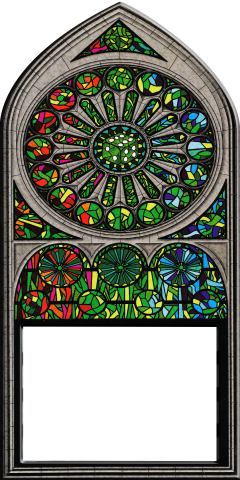
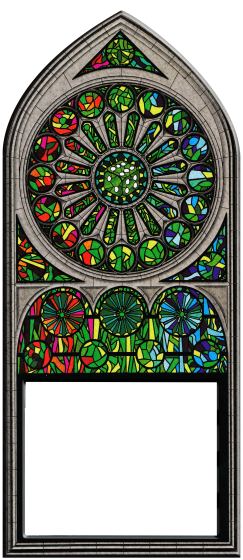
MultiplayerGUI -  miglioramenti

diff --git a/src/main/java/Progetto_Ing_Sw/com/client/MultiplayerGUI.java b/src/main/java/Progetto_Ing_Sw/com/client/MultiplayerGUI.java
@@ -70,10 +70,10 @@ public class MultiplayerGUI extends Stage {
         //INIZIO Lobby Scene
 
         //Finestre
-        ImageView Player1Window = new ImageView("Progetto_Ing_Sw/com/client/GUI/LobbyPlayer1.png");
-        ImageView Player2Window = new ImageView("Progetto_Ing_Sw/com/client/GUI/LobbyPlayer2.png");
-        ImageView Player3Window = new ImageView("Progetto_Ing_Sw/com/client/GUI/LobbyPlayer3.png");
-        ImageView Player4Window = new ImageView("Progetto_Ing_Sw/com/client/GUI/LobbyPlayer4.png");
+        ImageView Player1Window = new ImageView("Progetto_Ing_Sw/com/client/GUI/LobbyPlayer1.png");Player1Window.setTranslateY(-30);
+        ImageView Player2Window = new ImageView("Progetto_Ing_Sw/com/client/GUI/LobbyPlayer2.png");Player2Window.setTranslateY(-30);
+        ImageView Player3Window = new ImageView("Progetto_Ing_Sw/com/client/GUI/LobbyPlayer3.png");Player3Window.setTranslateY(-30);
+        ImageView Player4Window = new ImageView("Progetto_Ing_Sw/com/client/GUI/LobbyPlayer4.png");Player4Window.setTranslateY(-30);
 
 
         //Bottoni per i singoli giocatori da premere per dare il Ready
@@ -85,10 +85,10 @@ public class MultiplayerGUI extends Stage {
 
 
         //Labels con i nomi dei giocatori
-        Player1Label = new Label("Player 1"); Player1Label.setId("PlayerLobbyLabel");Player1Label.setPrefWidth(240);Player1Label.setTranslateY(255);
-        Player2Label = new Label("Player 2"); Player2Label.setId("PlayerLobbyLabel");Player2Label.setPrefWidth(240);Player2Label.setTranslateY(255);
-        Player3Label = new Label("Player 3"); Player3Label.setId("PlayerLobbyLabel");Player3Label.setPrefWidth(240);Player3Label.setTranslateY(255);
-        Player4Label = new Label("Player 4"); Player4Label.setId("PlayerLobbyLabel");Player4Label.setPrefWidth(240);Player4Label.setTranslateY(255);
+        Player1Label = new Label("Player 1"); Player1Label.setId("PlayerLobbyLabel");Player1Label.setPrefWidth(240);Player1Label.setTranslateY(260);
+        Player2Label = new Label("Player 2"); Player2Label.setId("PlayerLobbyLabel");Player2Label.setPrefWidth(240);Player2Label.setTranslateY(260);
+        Player3Label = new Label("Player 3"); Player3Label.setId("PlayerLobbyLabel");Player3Label.setPrefWidth(240);Player3Label.setTranslateY(260);
+        Player4Label = new Label("Player 4"); Player4Label.setId("PlayerLobbyLabel");Player4Label.setPrefWidth(240);Player4Label.setTranslateY(260);
 
 
 
@@ -191,7 +191,6 @@ public class MultiplayerGUI extends Stage {
                     Player1BTN.setId("ReadyBTN");
                     Player1BTN.setText("READY!");
                     Player1BTN.setDisable(false);
-
             }
         });
     }
